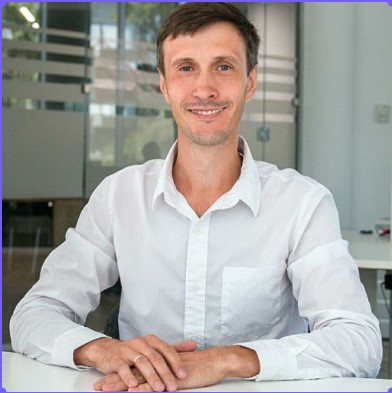
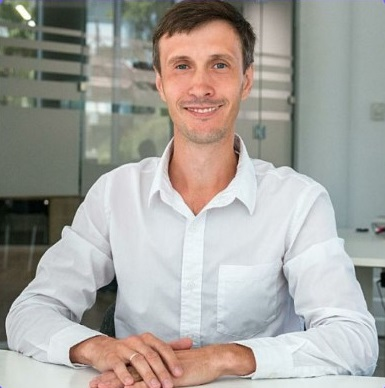
добавил первый проект

diff --git a/styles.css b/styles.css
@@ -9,42 +9,116 @@
     padding: 0;
 }
 .viewport {
-    display: grid;
-    grid-template-columns: auto auto;
-    justify-content: center;
-    gap: 5%;
-    background-color: #3f2a13;
-    padding: 5%;
-}
-.block-text {
     display: flex;
+    flex-direction: column;
     align-items: center;
-    border: 1px solid white;
+    background-color: #f7f8fa;
+    padding: 30px 0;
+}
+.wrapper {
+    width: 100%;
+    max-width: 1000px;
+    box-shadow: 3px 0 5px gray, -3px 0 5px gray
+}
+.header {
+    display: flex;
+    justify-content: space-between;
+    align-items: center;
+    background-color: #434e5e;
+    gap: 5%;
+}
+.header__face {
+    display: block;
+    object-fit: cover;
+    width: 250px; 
+}
+.header__text {
+    display: flex;
+    width: 80%;
+    justify-content: space-between;
+}
+.text__info, .text__links {
+    display: flex;
+    flex-direction: column;
+    justify-content: space-around;
+}
+.text__links {
+    width: 30%;
+}
+.info__name, .info__profession {
+    color: #ffffff;
+}
+.info__language, .info__mobile, .info__mail {
+    color: #81a3bf;
+    padding: 5px 0;
+}
+.links__linkedin, .links__github, .links__codepen {
+    text-decoration: none;
+    color: #81a3bf;
+    padding: 5px 0;
+    font-size: 22px;
+}
+.first-project {
+    display: flex;
+    justify-content: space-around;
+    align-items: center;
+}
+.image {
+    display: block;
+    min-width: 400px;
+    min-height: 400px;
+    background-image: url('img/1.png');
+    background-size: cover;
+    border: 1px solid gray;
+    border-radius: 5px;
+    margin: 15px 0;
+}
+.description {
+    display: flex;
+    justify-content: center;
+    align-items: center;
 }
 .text {
-    font-weight: 400;
-    font-size: clamp(18px, 25cqw, 28px);
-    line-height: 180%;
-    color: #ffffff;
+    text-decoration: none;
+    font-size: 22px;
+    color: gray;
     text-align: center;
-    padding: 20px;
+    padding: 15px;
 }
-.block-img {
-    display: flex; 
-    width: clamp(300px, 35cqw, 550px);
-    height: 500px;
-    align-items: center;
-    justify-content: center;
-    background-color: #b6afa7;
-    border-radius: 15px;
+
+
+/*правила*/
+@media screen and (max-width: 575px) {
+    .header__text {
+        flex-direction: column;
+        align-items: center;
+    }
+    .first-project {
+        flex-direction: column;
+    }
+    .image {
+        max-width: 200px;
+        max-height: 200px;
+    }
+     
+
 }
-.face {
-    display: block;
-    width: 90%;
-    height: 90%;
-    background-image: url("img/I.jpg");
-    background-repeat: no-repeat;
-    background-position: top;
-    background-size: cover;
-    border-radius: 15px;
+
+@media screen and (max-width: 768px) {
+    .header {
+        flex-direction: column;
+    }
+    .header__face {
+        width: 150px;
+        border-radius: 5px;
+        margin-top: 5%;
+    }
+    .viewport {
+        padding-top: 0;
+    }
+    .image {
+        min-width: 300px;
+        min-height: 300px;
+    }
+    
 }

diff --git a/index.html b/index.html
@@ -6,15 +6,38 @@
   <meta name="viewport" content="width=device-width, initial-scale=1.0" />
   <link rel="stylesheet" href="https://cdnjs.cloudflare.com/ajax/libs/normalize/8.0.1/normalize.min.css" />
   <link rel="icon" type="" href="" />
-  <script src="https://kit.fontawesome.com/4711ada8e4.js" crossorigin="anonymous"></script>
   <link rel="stylesheet" href="styles.css" />
 </head>
 <!--  -->
 <body class="viewport">
-<div class="block-text">
-    <h1 class="text">Hello, my name is Mikhail Permyakov. I am a web developer. Glad to see you on my portfolio page...</h1>
-</div>
-<div class="block-img"><div class="face"></div></div>
-<h3 class="project">This is my first landing<br>https://mikhailpermiakov.github.io/landing-novostroy/</h3>
+  <div class="wrapper">
+    <header class="header">
+      <img class="header__face" src="img/i.jpg" />
+      <div class="header__text">
+        <div class="text__info">
+          <h1 class="info__name">Mikhail Permiakov</h1>
+          <h2 class="info__profession">Front-End Developer</h2>
+          <h2 class="info__language">Lang="ru"</h2>
+          <h3 class="info__mobile">+55 24 992 00 12 12</h3>
+          <h3 class="info__mobile">+7 951 205 62 51</h3>
+          <h3 class="info__mail">mp9512056251@gmail.com</h3>
+        </div>
+        <div class="text__links">
+          <a class="links__linkedin" href="https://www.linkedin.com/in/mikhail-permiakov-165bbb252/">#Linkedin</a>
+          <a class="links__github" href="https://github.com/MikhailPermiakov">#Github</a>
+          <a class="links__codepen" href="https://codepen.io/MikhailPermiakov">#Codepen</a>
+        </div>
+      </div>
+    </header>
+    <main class="main">
+      <section class="first-project">
+        <div class="image"></div>
+        <div class="description">
+          <a class="text" href="https://mikhailpermiakov.github.io/landing-novostroy/">This is my first project, made in February 2023. Pure CSS</a>
+        </div>
+      </section>
+    </main>
+  </div>
+
 </body>
 </html>
